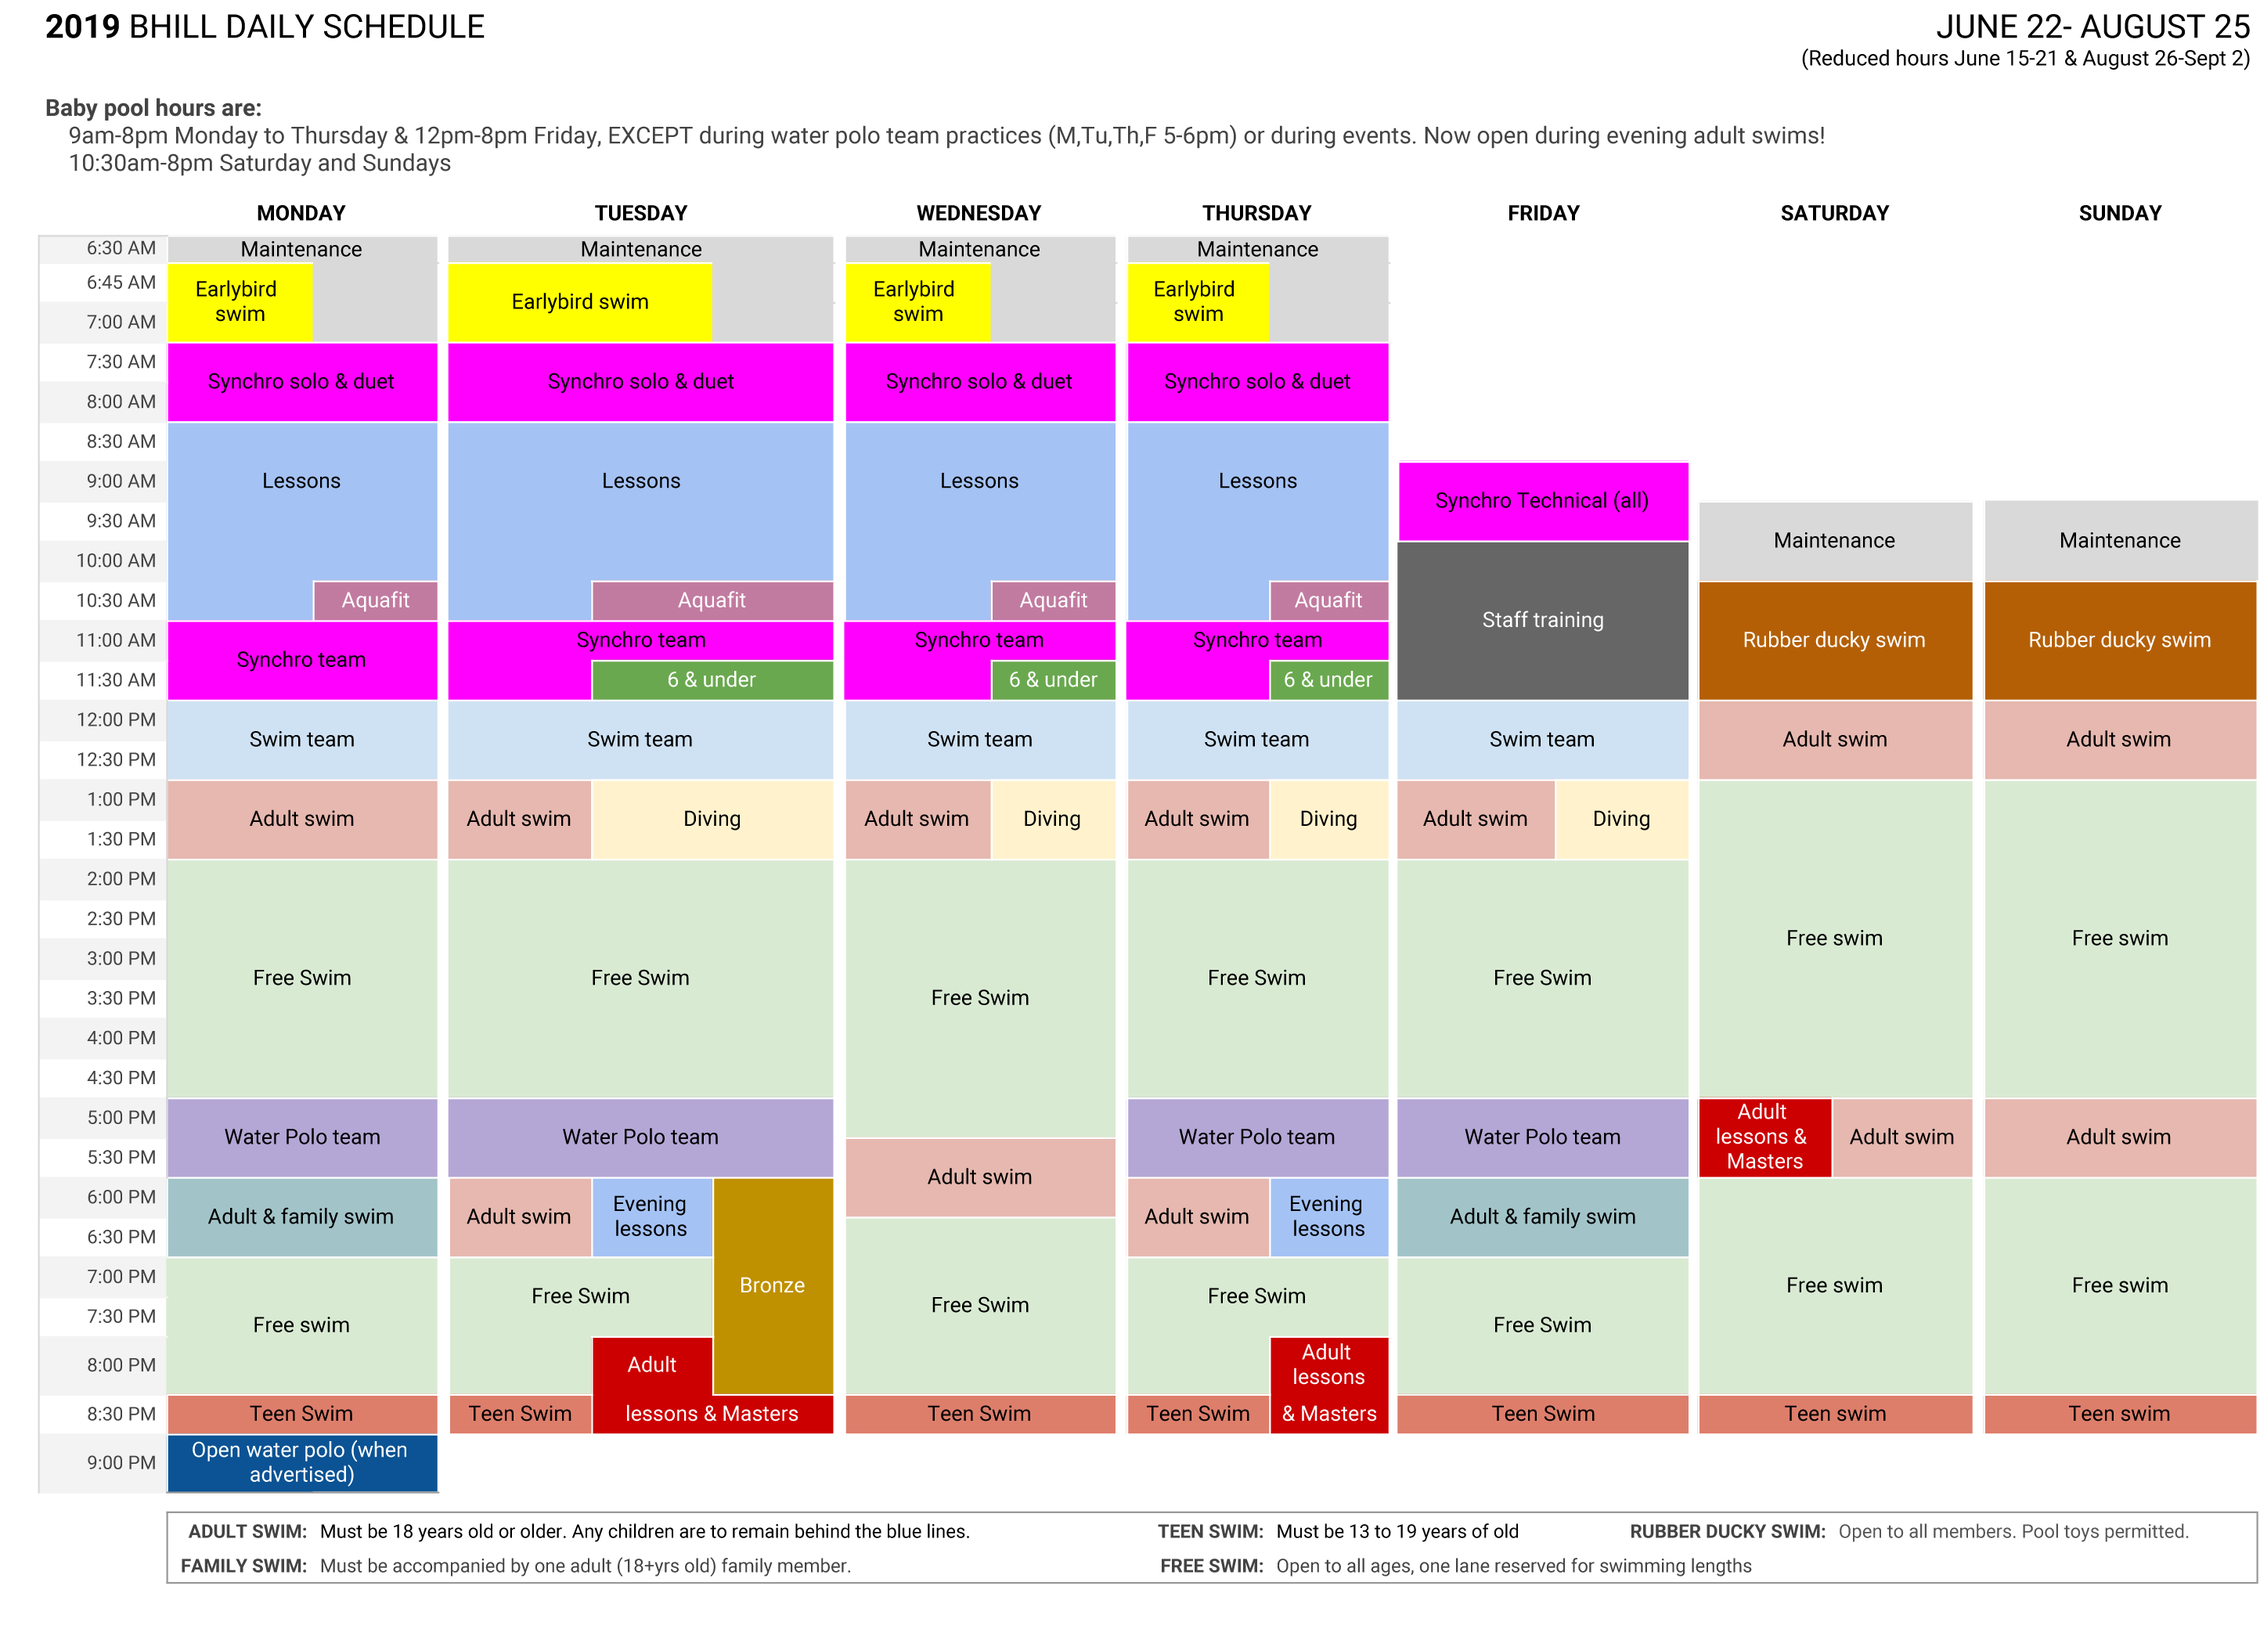
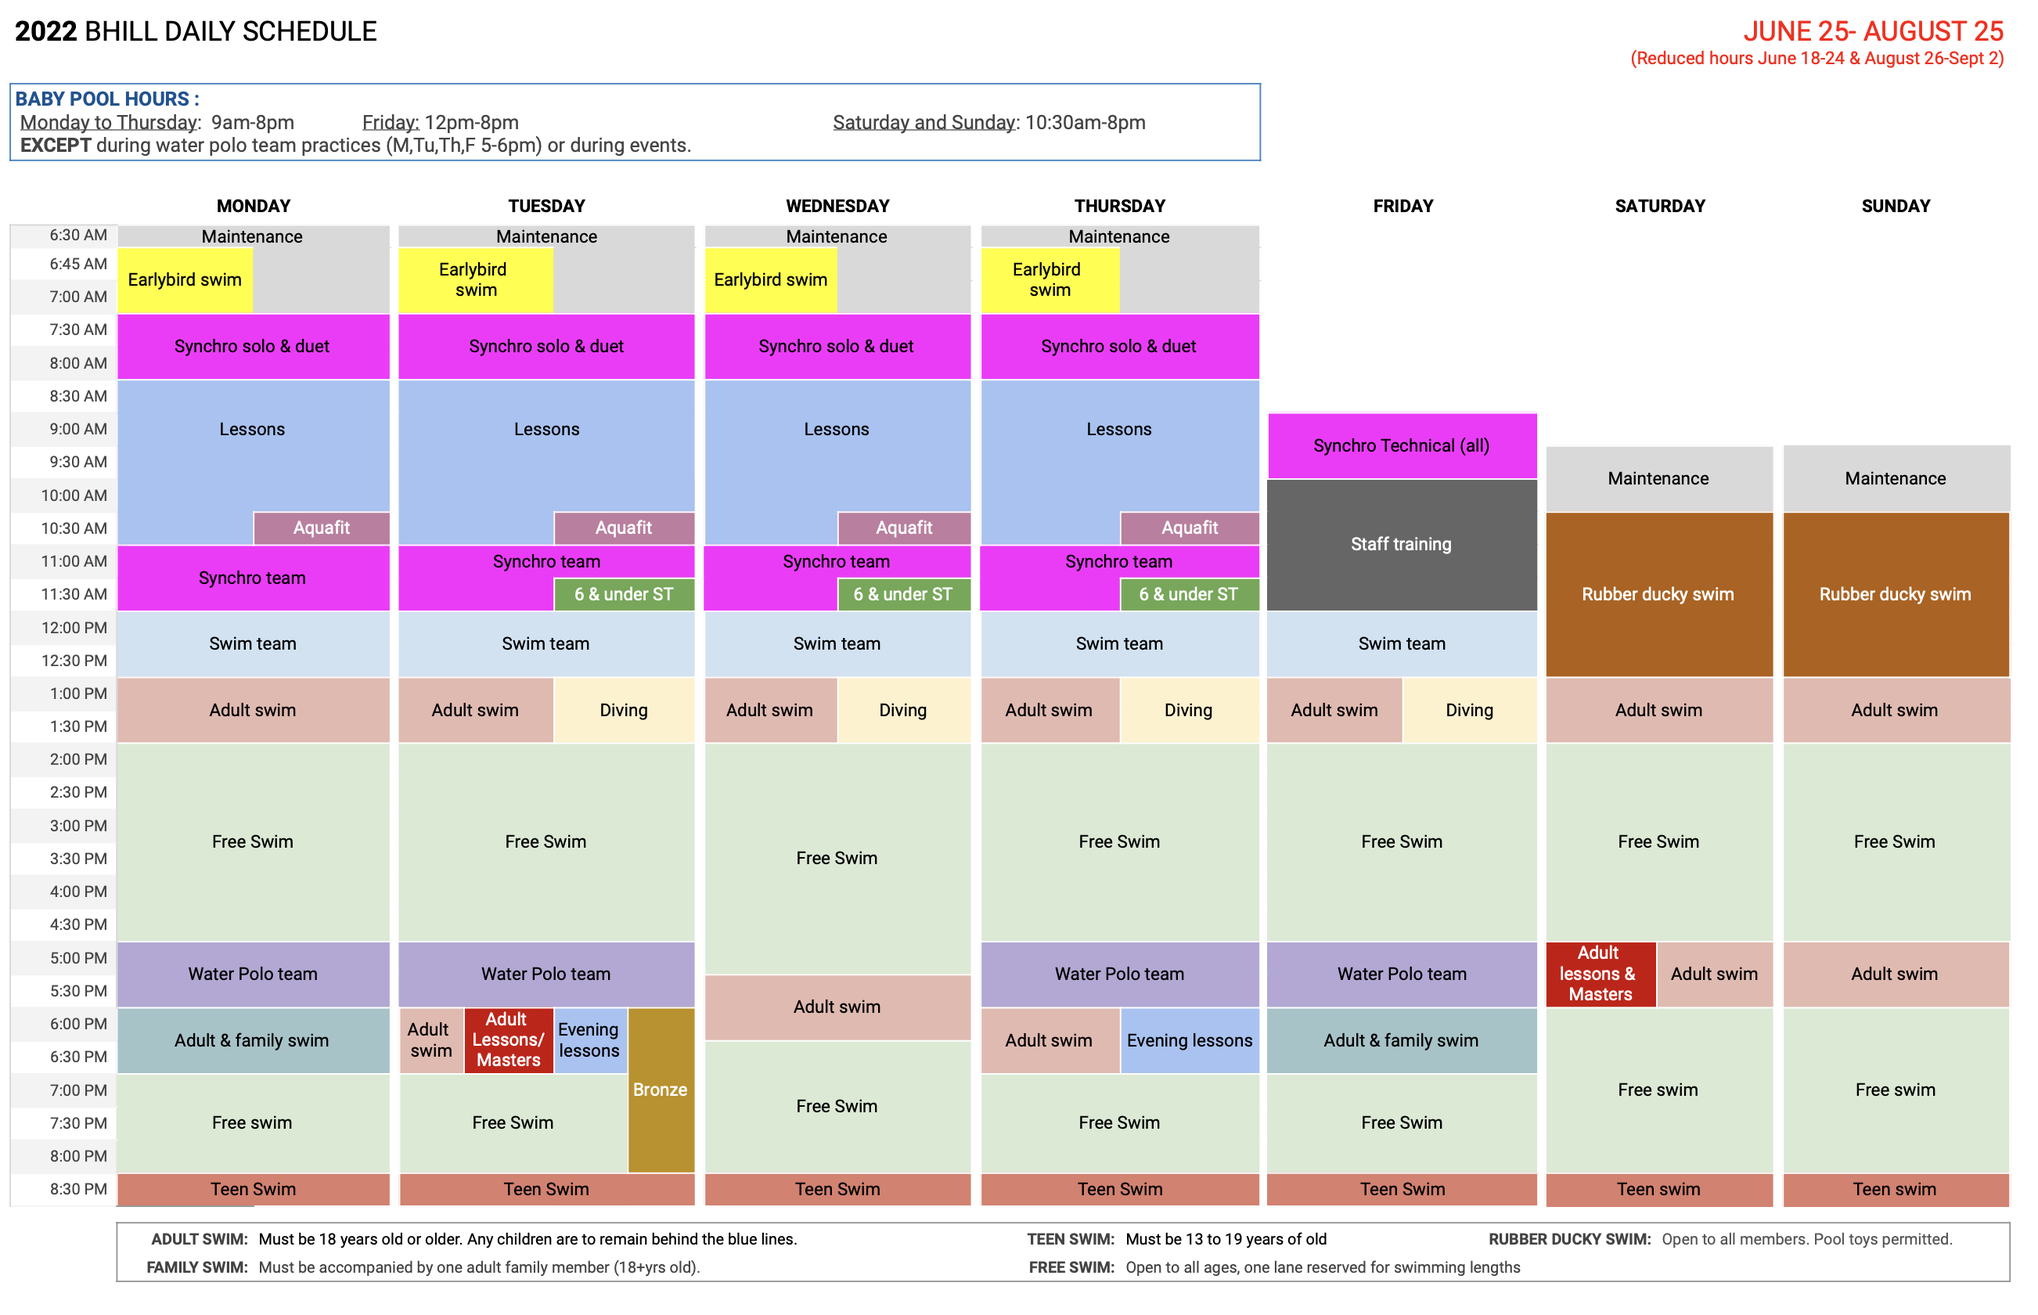
schedule updates

diff --git a/daily-schedule.html b/daily-schedule.html
@@ -75,19 +75,18 @@
                 <div class="row mt-5 wow fadeIn">
                     <div class="col-lg-12 col-md-12 mb-4">                    
                     
-                        <h4>POST-SEASON HOURS, SEPT 2-9 <br/>&#8212;</h4>
+                        <h4>OPENING WEEK <br/>&#8212;</h4>
                         <div class="row">
                         	<div class="col-lg-10 col-md-10 mb-4">
-                            	<p>Monday Sept 2 to Friday Sept 6: 4-8pm Free swim</p>
-                                <p>Saturday Sept 7 to Sunday Sept 8: 12pm-1pm Adult swim, 1pm-8pm Free swim</p>
-                                <p>Monday Sept 9: 12pm-1pm Adult swim, 1pm-5pm Free swim</p>
+                            	<p>June 18&19, refer to daily schedule</p>
+                                <p>June 20-June 24 Both pools open for free swim 4-8pm</p>
+                                <p>June 25 and after, refer to daily schedule</p>
                             </div>
-                        	
                         </div>
-                        <img src="img/2021-post-season.png" class="img-fluid">
+                        <img src="img/BHILL-Schedule.png" class="img-fluid">
                         <div align="center">
-                        	<!--<a href="https://docs.google.com/spreadsheets/" target="_blank" class="btn btn-danger btn-rounded btn-md mt-4">Open in Google</a> 
-                            <a href="forms/2021-BHILL-Daily-Schedule.pdf" target="_blank" class="btn btn-info btn-rounded btn-md mt-4">Print</a>-->
+                        	<a href="https://drive.google.com/file/d/1gzDTk6tVZ4Znzh_pwL1BBhOYzptx4YGU/view?usp=sharing" target="_blank" class="btn btn-danger btn-rounded btn-md mt-4">Print PDF</a> 
+                            <!--<a href="forms/2021-BHILL-Daily-Schedule.pdf" target="_blank" class="btn btn-info btn-rounded btn-md mt-4">Print</a>-->
                         </div>
 
                     </div>

diff --git a/index.html b/index.html
@@ -88,7 +88,7 @@
         <h4>Welcome to</h4>
         <h1 class="mb-2 display-4">Beacon Hill Community Pool</h1>
         <h5 class="mb-3">110 Harwood Gate, Beaconsfield, QC</h5>
-        <a href="membership-fees.html" class="btn btn-outline-white waves-effect">REGISTRATION 2022</a>
+        <a href="membership-fees.html" class="btn btn-outline-white waves-effect">2022 REGISTRATION</a>
        <!--<a href="" class="btn btn-outline-white waves-effect" data-toggle="modal" data-target="#calendar">Calendar</a>
        <br/>
        <h4><strong>2021 REGISTRATION NOW OPEN</strong></h4>
